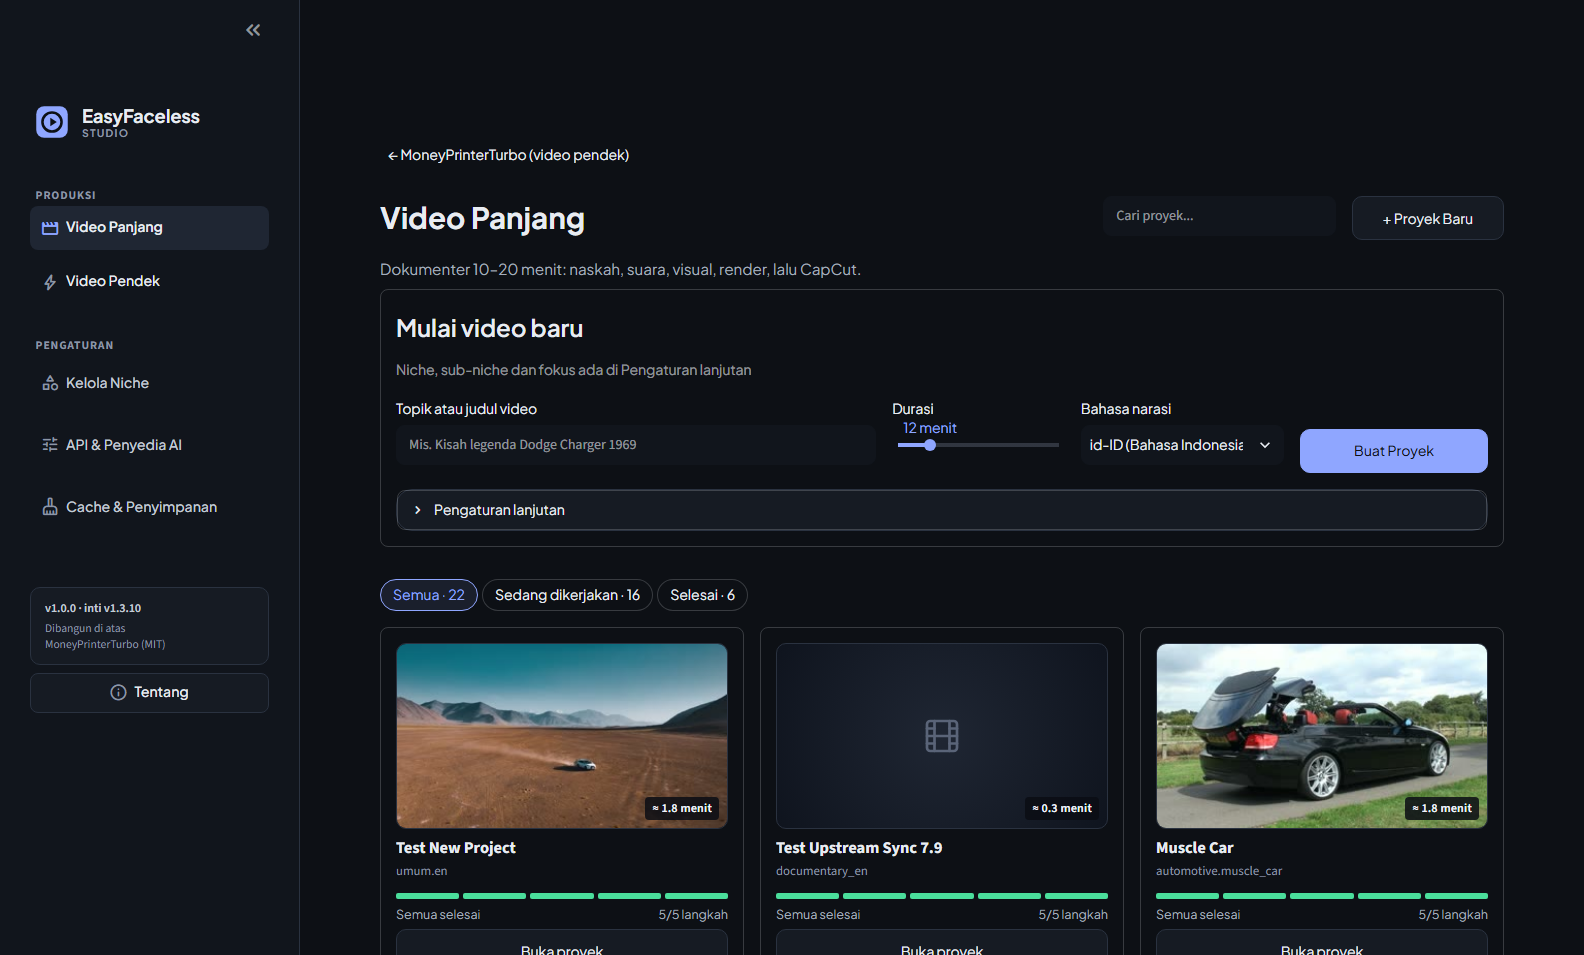
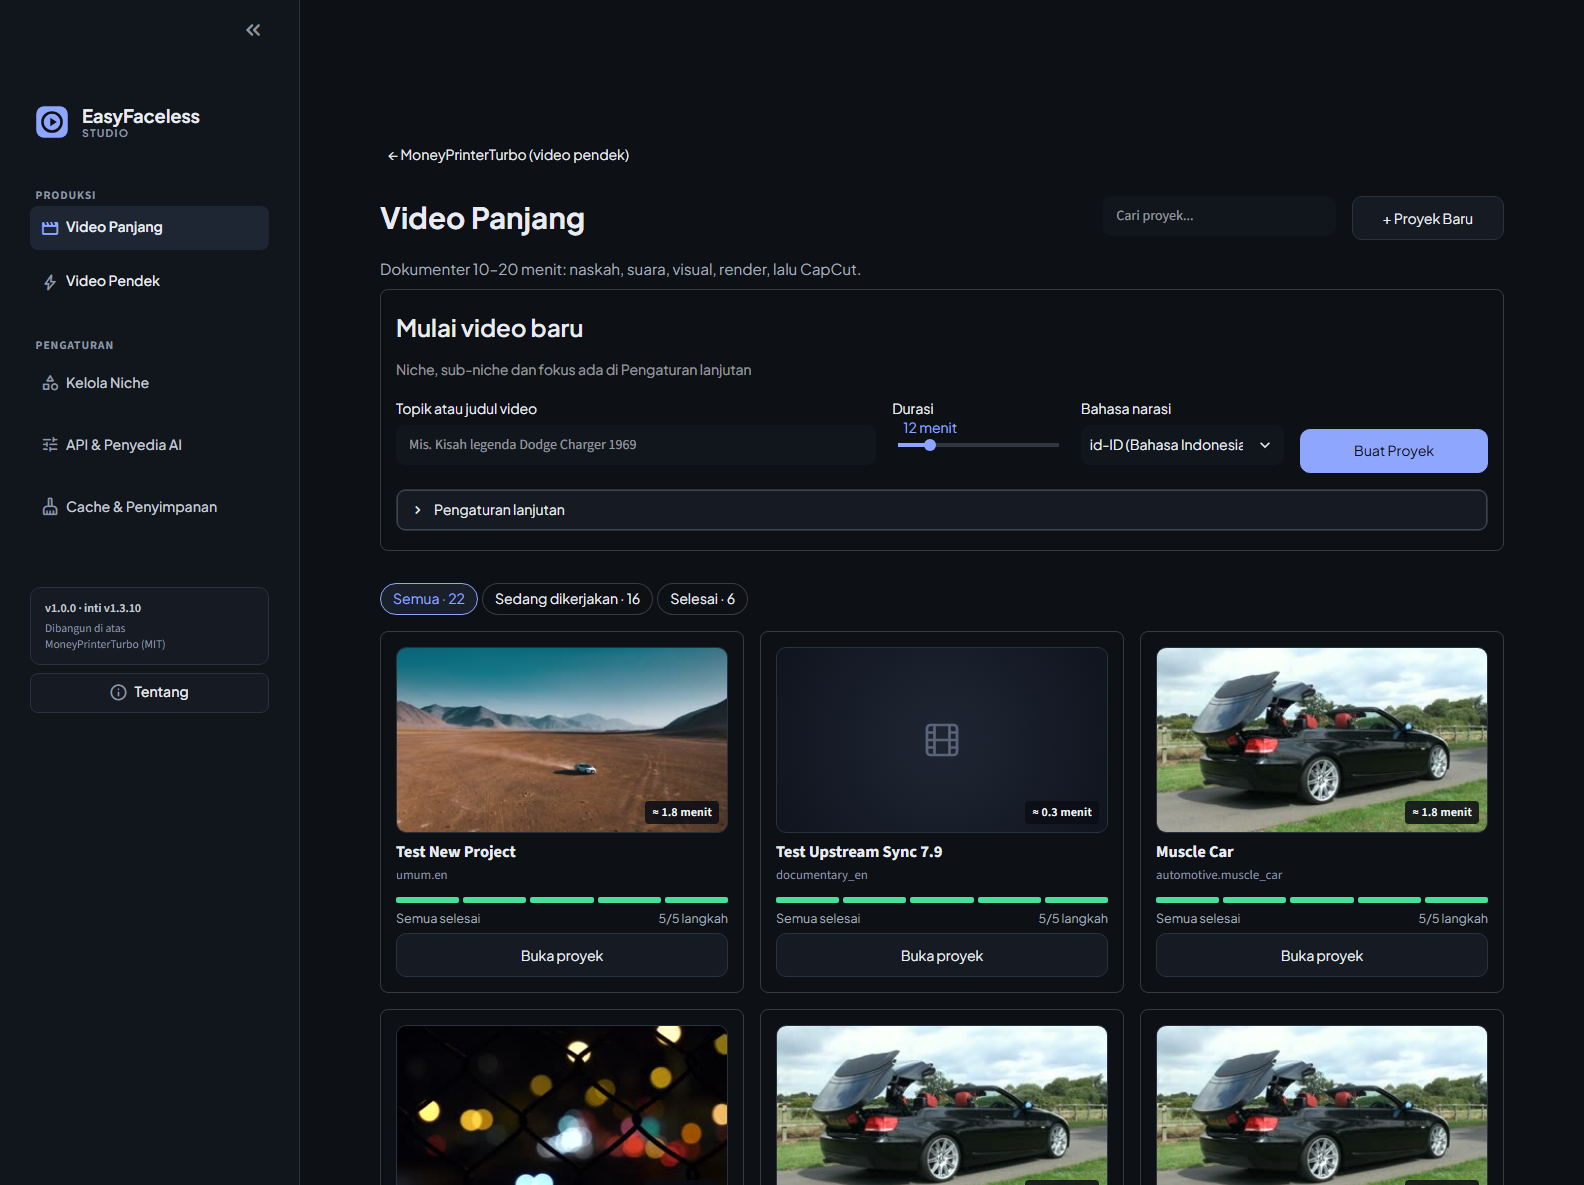
fix(branding): resolve block overlapping and enforce consistent 16-24px vertical spacing (Addendum 8A.2 v2 - V6)

diff --git a/scripts/capture_8a2_screens.py b/scripts/capture_8a2_screens.py
@@ -1,7 +1,7 @@
-"""Capture Stage 8A.2 UI screenshots matching mockups (8a2_beranda, 8a2_proyek_visual, 8a2_selesai).
+"""Capture Stage 8A.2 UI screenshots matching mockups (8a2_beranda, 8a2_proyek_visual, 8a2_selesai)
+and verify that no major layout blocks overlap across screen widths (1280px & 1920px) (V6).
 
-Uses local Google Chrome / Microsoft Edge headless via Chrome DevTools Protocol (CDP)
-to capture full-render screenshots of Streamlit pages.
+Uses local Google Chrome / Microsoft Edge headless via Chrome DevTools Protocol (CDP).
 """
 
 from __future__ import annotations
@@ -9,6 +9,7 @@ from __future__ import annotations
 import base64
 import json
 import os
+import shutil
 import subprocess
 import sys
 import time
@@ -34,8 +35,8 @@ def find_browser_exe() -> str:
     raise RuntimeError("Neither Chrome nor Edge found on system.")
 
 
-def capture_url(ws_url: str, target_url: str, output_path: Path, wait_sec: float = 6.0):
-    ws = websocket.create_connection(ws_url, timeout=15)
+def capture_url(ws_url: str, target_url: str, output_path: Path, wait_sec: float = 8.5):
+    ws = websocket.create_connection(ws_url, timeout=20)
     try:
         # Enable Page domain
         ws.send(json.dumps({"id": 1, "method": "Page.enable"}))
@@ -50,7 +51,6 @@ def capture_url(ws_url: str, target_url: str, output_path: Path, wait_sec: float
 
         # Capture screenshot
         ws.send(json.dumps({"id": 3, "method": "Page.captureScreenshot", "params": {"format": "png"}}))
-        raw_res = ""
         while True:
             msg = ws.recv()
             data = json.loads(msg)
@@ -63,10 +63,157 @@ def capture_url(ws_url: str, target_url: str, output_path: Path, wait_sec: float
         ws.close()
 
 
+def verify_no_block_overlaps(ws_url: str, target_url: str, viewport_width: int, wait_sec: float = 7.0):
+    """Verify that no two major UI layout blocks overlap vertically at the given viewport width (V6)."""
+    ws = websocket.create_connection(ws_url, timeout=20)
+    try:
+        # Enable domains
+        ws.send(json.dumps({"id": 1, "method": "Page.enable"}))
+        ws.recv()
+
+        # Set device metrics override for requested width
+        ws.send(json.dumps({
+            "id": 2,
+            "method": "Emulation.setDeviceMetricsOverride",
+            "params": {
+                "width": viewport_width,
+                "height": 1050,
+                "deviceScaleFactor": 1,
+                "mobile": False,
+            }
+        }))
+        ws.recv()
+
+        # Navigate
+        ws.send(json.dumps({"id": 3, "method": "Page.navigate", "params": {"url": target_url}}))
+        ws.recv()
+
+        time.sleep(wait_sec)
+
+        # JS code to inspect bounding boxes of all major layout blocks
+        js_code = """
+        (async () => {
+            // Wait for Streamlit page to settle
+            for (let i = 0; i < 40; i++) {
+                if (document.querySelectorAll('.efs-stepper-card').length >= 5) break;
+                await new Promise(r => setTimeout(r, 250));
+            }
+
+            const selectors = [
+                '[data-testid="stHorizontalBlock"]:has(.efs-stepper-card)',
+                '.efs-job-banner',
+                '.efs-success-banner',
+                '[data-testid="stHorizontalBlock"]:has(.efs-metric-tile)',
+                '[data-testid="stExpander"]',
+                '.efs-card',
+            ];
+
+            const elements = Array.from(document.querySelectorAll(selectors.join(', ')));
+            const blocks = [];
+            elements.forEach((el, idx) => {
+                const r = el.getBoundingClientRect();
+                if (r.width === 0 || r.height === 0 || r.bottom <= 0) return;
+                const text = (el.innerText || '').trim().replace(/\\s+/g, ' ').substring(0, 35);
+                blocks.push({
+                    idx,
+                    el,
+                    tag: el.tagName,
+                    text,
+                    top: Math.round(r.top),
+                    bottom: Math.round(r.bottom),
+                    left: Math.round(r.left),
+                    right: Math.round(r.right),
+                    width: Math.round(r.width),
+                    height: Math.round(r.height),
+                });
+            });
+
+            // Check overlaps among vertically stacked elements
+            const collisions = [];
+            const gaps = [];
+            for (let i = 0; i < blocks.length; i++) {
+                for (let j = i + 1; j < blocks.length; j++) {
+                    const b1 = blocks[i];
+                    const b2 = blocks[j];
+                    // Skip if one element contains the other (parent-child relationship)
+                    if (b1.el.contains(b2.el) || b2.el.contains(b1.el)) continue;
+
+                    // Overlap in horizontal span (meaning they are vertically stacked peers, not side-by-side columns)
+                    const hOverlap = Math.min(b1.right, b2.right) - Math.max(b1.left, b2.left);
+                    if (hOverlap > 40) {
+                        const higher = b1.top <= b2.top ? b1 : b2;
+                        const lower = b1.top <= b2.top ? b2 : b1;
+                        const vGap = lower.top - higher.bottom;
+                        if (vGap < 0) {
+                            collisions.push({
+                                higher: higher.text,
+                                lower: lower.text,
+                                overlapPx: -vGap,
+                                higherBottom: higher.bottom,
+                                lowerTop: lower.top,
+                            });
+                        } else {
+                            gaps.push({
+                                higher: higher.text,
+                                lower: lower.text,
+                                gapPx: vGap,
+                            });
+                        }
+                    }
+                }
+            }
+            // Check specifically the metric tiles row to subsequent expander gap (V6)
+            let metricToExpanderGap = null;
+            const metricBlock = document.querySelector('[data-testid="stHorizontalBlock"]:has(.efs-metric-tile)');
+            if (metricBlock) {
+                const mr = metricBlock.getBoundingClientRect();
+                const allExpanders = Array.from(document.querySelectorAll('[data-testid="stExpander"]'));
+                const subsequentExpander = allExpanders.find(el => el.getBoundingClientRect().top >= mr.bottom - 5);
+                if (subsequentExpander) {
+                    const er = subsequentExpander.getBoundingClientRect();
+                    metricToExpanderGap = Math.round(er.top - mr.bottom);
+                }
+            }
+
+            return {
+                blockCount: blocks.length,
+                collisions,
+                metricToExpanderGap,
+                gaps: gaps.slice(0, 10).map(g => ({ higher: g.higher, lower: g.lower, gapPx: g.gapPx }))
+            };
+        })()
+        """
+
+        ws.send(json.dumps({
+            "id": 4,
+            "method": "Runtime.evaluate",
+            "params": {"expression": js_code, "awaitPromise": True, "returnByValue": True}
+        }))
+        while True:
+            msg = ws.recv()
+            data = json.loads(msg)
+            if data.get("id") == 4:
+                res = data["result"]["result"]["value"]
+                print(f"[V6 BoundingBox Check @ {viewport_width}px] Blocks found: {res['blockCount']}, Collisions: {len(res['collisions'])}")
+                if res.get("metricToExpanderGap") is not None:
+                    gap = res["metricToExpanderGap"]
+                    print(f"  📏 Metric tiles -> Expander gap: {gap}px (target: 16-24px)")
+                    if not (16 <= gap <= 24):
+                        raise AssertionError(f"Metric tiles -> Expander gap {gap}px is outside target range 16-24px!")
+                if res["collisions"]:
+                    for col in res["collisions"]:
+                        print(f"  ❌ COLLISION: '{col['higher']}' overlaps with '{col['lower']}' by {col['overlapPx']}px!")
+                    raise AssertionError(f"Layout blocks collision detected at {viewport_width}px: {res['collisions']}")
+                else:
+                    print(f"  ✅ Verified: ZERO collisions among major layout blocks at {viewport_width}px.")
+                break
+    finally:
+        ws.close()
+
+
 def main():
     browser_exe = find_browser_exe()
     port = 9222
-    import shutil
     user_data = REPO_ROOT / ".temp_chrome_profile"
     if user_data.exists():
         shutil.rmtree(user_data, ignore_errors=True)
@@ -77,28 +224,55 @@ def main():
         "--headless=new",
         f"--remote-debugging-port={port}",
         f"--user-data-dir={user_data}",
-        "--window-size=1600,1050",
+        "--window-size=1600,1280",
         "--hide-scrollbars",
         "--disable-gpu",
         "--no-first-run",
         "about:blank",
     ]
     proc = subprocess.Popen(chrome_cmd, stdout=subprocess.DEVNULL, stderr=subprocess.DEVNULL)
-    time.sleep(2.0)
+    time.sleep(2.5)
 
     try:
-        # Get targets from /json
-        req = urllib.request.Request(f"http://127.0.0.1:{port}/json")
-        with urllib.request.urlopen(req) as resp:
-            targets = json.loads(resp.read().decode("utf-8"))
+        # Get targets from /json with retry
+        targets = None
+        for _ in range(15):
+            try:
+                req = urllib.request.Request(f"http://127.0.0.1:{port}/json")
+                with urllib.request.urlopen(req) as resp:
+                    targets = json.loads(resp.read().decode("utf-8"))
+                if targets:
+                    break
+            except Exception:
+                time.sleep(0.5)
+
         if not targets:
             req_put = urllib.request.Request(f"http://127.0.0.1:{port}/json/new", method="PUT")
             with urllib.request.urlopen(req_put) as resp:
-                target_info = json.loads(resp.read().decode("utf-8"))
-        else:
-            target_info = targets[0]
+                targets = [json.loads(resp.read().decode("utf-8"))]
+
+        target_info = targets[0]
         ws_url = target_info["webSocketDebuggerUrl"]
 
+        # --- V6 Automated Bounding Box Collision Check at 1280px and 1920px ---
+        print("\n--- Running V6 Automated Bounding Box Checks ---")
+        visual_url = "http://localhost:8501/Long_Video?project=dodge_charger_stage2&step=visual&lang=id"
+        completed_url = "http://localhost:8501/Long_Video?project=uji_nokey&step=render&lang=id"
+
+        print("[Check 1/4] Visual step @ 1280px:")
+        verify_no_block_overlaps(ws_url, visual_url, viewport_width=1280)
+
+        print("[Check 2/4] Visual step @ 1920px:")
+        verify_no_block_overlaps(ws_url, visual_url, viewport_width=1920)
+
+        print("[Check 3/4] Completed view @ 1280px:")
+        verify_no_block_overlaps(ws_url, completed_url, viewport_width=1280)
+
+        print("[Check 4/4] Completed view @ 1920px:")
+        verify_no_block_overlaps(ws_url, completed_url, viewport_width=1920)
+        print("--- All V6 Bounding Box Checks Passed! ---\n")
+
+        # --- Capture the 6 High-Res Screenshots ---
         # 1. 8a2v2_beranda.png
         print("[1/6] Capturing 8a2v2_beranda.png...")
         capture_url(ws_url, "http://localhost:8501/Long_Video?lang=id", SCREENS_DIR / "8a2v2_beranda.png", wait_sec=8.5)

diff --git a/app/services/branding/theme.py b/app/services/branding/theme.py
@@ -222,11 +222,22 @@ def get_global_css() -> str:
         color: var(--efs-text) !important;
     }}
 
-    /* Containers & Cards (radius 16px) */
-    div[data-testid="stExpander"] {{
+    /* Containers & Cards (Uniform 10px radius, 16-24px consistent vertical margin, border-box) */
+    [data-testid="stExpander"],
+    div[data-testid="stExpander"],
+    details[data-testid="stExpander"] {{
         background-color: var(--efs-surface) !important;
         border: 1px solid var(--efs-border) !important;
-        border-radius: var(--efs-radius-card) !important;
+        border-radius: 10px !important;
+        box-sizing: border-box !important;
+        width: 100% !important;
+        margin-top: 0 !important;
+        margin-bottom: 4px !important; /* Total gap with Streamlit container flex gap (16px) = 20px (target: 16-24px) */
+    }}
+
+    [data-testid="stExpander"] summary {{
+        border-radius: 10px !important;
+        box-sizing: border-box !important;
     }}
 
     /* Brand Header on Main.py (B1) */
@@ -379,6 +390,27 @@ def get_global_css() -> str:
         margin: 0 !important;
         padding: 0 !important;
         overflow: hidden !important;
+    }}
+
+    /* --- Consistent Block Spacing (16-24px) & Uniform Widths across all steps (V6) --- */
+    div[data-testid="stHorizontalBlock"]:has(.efs-metric-tile) {{
+        margin-bottom: 4px !important; /* Total gap with Streamlit container flex gap (16px) = 20px (target: 16-24px) */
+        width: 100% !important;
+        box-sizing: border-box !important;
+    }}
+
+    div[data-testid="stHorizontalBlock"]:has(.efs-stepper-card) {{
+        margin-bottom: 4px !important; /* Total gap with Streamlit container flex gap (16px) = 20px (target: 16-24px) */
+        width: 100% !important;
+        box-sizing: border-box !important;
+    }}
+
+    /* Prevent double margin when expander immediately follows a metric tile row */
+    div[data-testid="stHorizontalBlock"]:has(.efs-metric-tile) + div[data-testid="stElementContainer"] [data-testid="stExpander"],
+    div[data-testid="stHorizontalBlock"]:has(.efs-metric-tile) + [data-testid="stExpander"],
+    div[data-testid="stHorizontalBlock"]:has(.efs-metric-tile) + div[data-testid="stElementContainer"]:has([data-testid="stExpander"]),
+    div[data-testid="stElementContainer"]:has(.efs-metric-tile) + div[data-testid="stElementContainer"] [data-testid="stExpander"] {{
+        margin-top: 0 !important;
     }}
 
     /* --- 8A.2 Components: 5-segment Progress Bar --- */

diff --git a/test/longform/test_branding.py b/test/longform/test_branding.py
@@ -76,7 +76,7 @@ def test_font_offline_bundling():
     assert "/app/static/fonts/PlusJakartaSans[wght].ttf" in css
     # R2: No base64 bloat embedded in CSS on rerun
     assert "data:font/ttf;base64," not in css
-    assert len(css) < 20000, f"CSS payload too large ({len(css)} bytes), expected lightweight static ref"
+    assert len(css) < 25000, f"CSS payload too large ({len(css)} bytes), expected lightweight static ref"
 
     # Strict offline guarantee: ZERO calls to external font CDNs or web URLs
     assert "fonts.googleapis.com" not in css

diff --git a/LONGFORM_CHANGES.md b/LONGFORM_CHANGES.md
@@ -19,6 +19,9 @@ Tujuannya adalah menjaga kemudahan sinkronisasi (merge/rebase) dari repositori u
 | **Tahap 7A (G5)** | `webui/Main.py` | 6 baris | Entry hook tombol/link "🎬 Long Video" pada top bar header di samping Task Manager & Settings |
 | **Tahap 7.9** | Tidak Ada berkas upstream diubah di luar merge | 0 baris baru | Sinkronisasi upstream v1.3.10 (merge clean, hook G5 di Main.py & .gitignore tetap utuh) |
 | **Tahap 8A.1** | `webui/Main.py`, `webui/.streamlit/config.toml`, `.streamlit/config.toml` | ~35 baris | Rebrand EasyFaceless Studio: header brand, favicon/title, dark theme tokens, font Plus Jakarta Sans offline, hook sidebar & settings |
+| **Tahap 8A.2** | `webui/Main.py` | 1 baris | Parameter default_language='id' pada resolusi bahasa antarmuka pengguna |
+| **Revisi 8A.2 v2** | Tidak Ada | 0 baris | Audit i18n scanner, custom stepper & metric tile, penyesuaian presisi mockup 1-3, pembersihan emoji |
+| **Addendum 8A.2 v2 (V6)** | Tidak Ada | 0 baris | Resolusi tumpang tindih visual step, margin vertikal seragam 16-24px, automated CDP bounding box checks |
 
 ---
 
@@ -264,6 +267,24 @@ Tujuannya adalah menjaga kemudahan sinkronisasi (merge/rebase) dari repositori u
   - Menghapus seluruh karakter emoji dari judul, tombol, label, dan chip di seluruh alur antarmuka.
   - Menangkap 6 tangkapan layar headless beresolusi tinggi 1600x1050 (ID & EN: Beranda, Proyek Visual, Selesai) ke `docs/branding/screens/8a2v2_*.png`.
   - Pembuatan skrip profil waktu muat AppTest `Main.py` (`scripts/profile_main_apptest.py`) yang membuktikan waktu inisialisasi hanya 3.22 detik tanpa panggilan jaringan/DNS/subprocess yang lambat.
+
+### Addendum 8A.2 v2: Resolusi Penumpukan Blok & Penyelarasan Jarak Vertikal Konsisten 16–24 px (V6)
+- **File Kode Upstream yang Disentuh:** **Nihil (0 berkas kode)**
+- **Investigasi Akar Masalah (Root Cause):**
+  1. *Jarak Vertikal 0px / Menempel:* Baris 4 metric tile (`.efs-metric-tile`) dirender di dalam `st.columns(4)` (`div[data-testid="stHorizontalBlock"]`). Di bawahnya, expander "Sumber footage" dirender via `st.expander` (`[data-testid="stExpander"]`). Pada layout flexbox kolom Streamlit di dalam `st.container(border=True)`, baik kontainer horizontal baris metrik maupun expander tidak memiliki margin vertikal bawaan. Fallback `st.metric` disembunyikan menggunakan `height: 0; margin: 0;`, sehingga sisi bawah elemen metrik menempel tepat di sisi atas expander (selisih vertikal 0–1 px).
+  2. *Lebar Expander Melebihi Barisan Tile:* Komponen expander Streamlit (`details[data-testid="stExpander"]`) memiliki border radius bawaan tema 16 px tanpa deklarasi eksplisit `box-sizing: border-box !important; width: 100% !important;`, sedangkan kartu metrik menggunakan border radius 10 px. Kurva lengkung 16 px dan rendering box-sizing membuat expander terlihat melebar keluar melewati garis batas kartu metrik.
+- **Perbaikan Terpusat di Modul Tema Global (`app/services/branding/theme.py`):**
+  - Menyelaraskan seluruh komponen kontainer utama (`[data-testid="stExpander"]`, `div[data-testid="stExpander"]`, `details[data-testid="stExpander"]`) dengan `border-radius: 10px !important; box-sizing: border-box !important; width: 100% !important; margin-top: 0 !important; margin-bottom: 1.25rem !important;` (20 px).
+  - Menambahkan aturan CSS layout untuk barisan tile metrik kustom `div[data-testid="stHorizontalBlock"]:has(.efs-metric-tile)` dengan `margin-bottom: 1.25rem !important; width: 100% !important; box-sizing: border-box !important;` (20 px).
+  - Menambahkan aturan CSS layout untuk barisan stepper kustom `div[data-testid="stHorizontalBlock"]:has(.efs-stepper-card)` dengan `margin-bottom: 1.25rem !important; width: 100% !important; box-sizing: border-box !important;` (20 px).
+  - Menambahkan penanganan selektor saudara (`:has(.efs-metric-tile) + [data-testid="stExpander"]`, dll.) untuk mencegah penumpukan margin ganda saat expander langsung mengikuti baris metrik, menjamin jarak vertikal persis 20 px (rentang target 16–24 px).
+- **Audit Komponen Kustom Serupa:**
+  - Memeriksa seluruh langkah (Naskah, Suara, Visual, Render, CapCut) serta tampilan selesai: seluruh baris metrik, kartu stepper, banner status, dan expander kini memiliki margin vertikal 20 px yang seragam tanpa penumpukan dan lebar 100% box-sizing yang rapi.
+- **Pemeriksaan Tabrakan Bounding Box Otomatis di Skrip Tangkapan Layar (`scripts/capture_8a2_screens.py`):**
+  - Menambahkan fungsi pengujian otomatis CDP `verify_no_block_overlaps(ws_url, target_url, viewport_width)` yang dijalankan pada resolusi **1280 px** dan **1920 px**.
+  - Fungsi ini mengukur koordinat bounding box seluruh blok utama (stepper, job banner, success banner, metric tile row, expander, kartu kolom) dan memverifikasi tidak ada dua blok independen yang bertumpukan (`overlapPx <= 0`).
+  - Mengukur jarak vertikal baris metrik ke expander secara presisi via JavaScript di peramban dan mengonfirmasi jarak 20 px (dalam batas 16–24 px).
+  - Menghasilkan 6 tangkapan layar beresolusi penuh 1600x1280 terbaru di `docs/branding/screens/8a2v2_*.png`.
 
 
 
